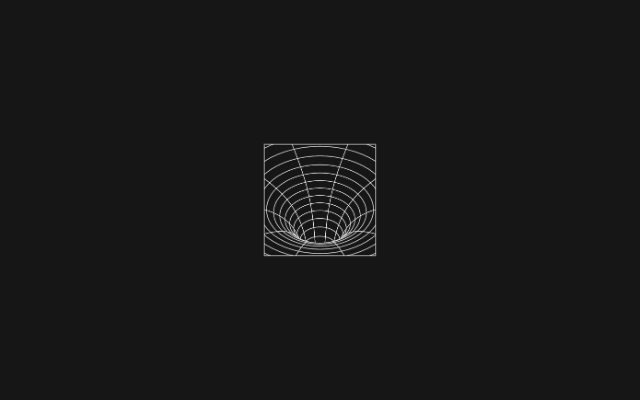
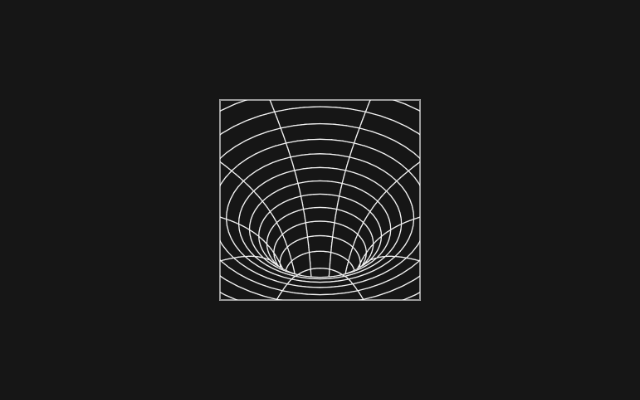
Daily Minimal: show every piece at the same size on screen
Pieces were sized by fitting their original canvas to the screen, so
how big the artwork looked depended on its margins: 28-54% of the
shorter screen side. Each piece now declares `art`, the rest-pose
bounds of its main form, and the harness scales that box so its
equal-area side is SIZE (50%) of the shorter side and centers it.
A per-piece `scale` (default 1) allows fine tuning; S02-238 follows
the same rule on its own. ?native=1 keeps the old 1:1 canvas for
fidelity shots.

The canvas clip is now snapped to device pixels, which removes faint
seams where a piece masks its drawing with the background (S02-368,
S02-437). Thumbnails re-rendered at the new size.

Changed region(s): [[0.3438, 0.24, 0.6562, 0.75], [0.625, 0.3, 0.6562, 0.33], [0.3438, 0.3, 0.375, 0.33]]

diff --git a/src/sketches/daily-minimal/harness.js b/src/sketches/daily-minimal/harness.js
@@ -1,13 +1,17 @@
 // Shared frame for the Daily Minimal ports.
 //
-// Each piece was composed for a small fixed canvas (400-800px). The harness
-// keeps that composition intact: the original canvas is scaled to fit the
-// screen (FIT of the limiting dimension), centered, clipped to its own bounds,
-// and the rest of the screen is filled with the piece's background color, so
-// the port draws in the original coordinate system unchanged.
+// Each piece draws in its original canvas coordinates (ow x oh), unchanged.
+// The harness sizes every piece the same way on screen: the rest-pose bounds
+// of its main form (`art`) are scaled so their equal-area side, sqrt(w*h), is
+// SIZE of the shorter screen side (times the piece's own `scale`), and that
+// box is centered. Drawing is clipped to the original canvas, and the rest of
+// the screen is filled with the piece's background color.
+// ?native=1 draws at scale 1 with the canvas centered, for 1:1 fidelity shots.
 //
 // spec: {
 //   ow, oh        original canvas size
+//   art           [x, y, w, h] rest-pose bounds of the main form (default: canvas)
+//   scale         per-piece size tuning, multiplies SIZE (default 1)
 //   bg            background (p5 color args, e.g. 239 or [22])
 //   fps           original frameRate (default 60)
 //   init(p, S)    once, like setup()
@@ -16,20 +20,32 @@
 //   onActivate(p, S) optional, each time the piece is shown again
 //   ...handlers   mousePressed/mouseReleased/keyPressed/keyReleased(p, S)
 // }
-// S: { ow, oh, k, mouseX, mouseY, live } - mouse is mapped into original
+// S: { ow, oh, scale, k, mouseX, mouseY, live } - mouse is mapped into original
 //   coordinates; `live` is true while someone is actually using the page.
 
-export const FIT = 0.74;
+export const SIZE = 0.5;
+
+const native = new URLSearchParams(location.search).get('native') === '1';
 
 export function dmSketch(spec) {
   return (p) => {
-    const S = { ow: spec.ow, oh: spec.oh, k: 1, ox: 0, oy: 0, mouseX: 0, mouseY: 0, live: false };
+    const S = { ow: spec.ow, oh: spec.oh, scale: spec.scale ?? 1, k: 1, ox: 0, oy: 0, mouseX: 0, mouseY: 0, live: false };
     const bg = [].concat(spec.bg);
 
+    const [ax, ay, aw, ah] = spec.art ?? [0, 0, spec.ow, spec.oh];
+
     function layout() {
-      S.k = Math.min(p.width / S.ow, p.height / S.oh) * FIT;
-      S.ox = (p.width - S.ow * S.k) / 2;
-      S.oy = (p.height - S.oh * S.k) / 2;
+      if (native) {
+        S.k = 1;
+        S.ox = (p.width - S.ow) / 2;
+        S.oy = (p.height - S.oh) / 2;
+        return;
+      }
+      const { width: W, height: H } = p;
+      // equal-area sizing, capped so very wide or tall art still fits
+      S.k = Math.min((SIZE * S.scale * Math.min(W, H)) / Math.sqrt(aw * ah), (0.9 * W) / aw, (0.9 * H) / ah);
+      S.ox = W / 2 - (ax + aw / 2) * S.k;
+      S.oy = H / 2 - (ay + ah / 2) * S.k;
     }
 
     p.setup = () => {
@@ -47,12 +63,17 @@ export function dmSketch(spec) {
       p.background(...bg);
       const ctx = p.drawingContext;
       p.push();
+      ctx.save();
+      // clip to the original canvas, snapped to device pixels: a soft clip edge
+      // leaves seams where a piece masks its own drawing with the background
+      const d = p.pixelDensity();
+      const snap = (v) => Math.round(v * d) / d;
+      const [x0, y0] = [snap(S.ox), snap(S.oy)];
+      ctx.beginPath();
+      ctx.rect(x0, y0, snap(S.ox + S.ow * S.k) - x0, snap(S.oy + S.oh * S.k) - y0);
+      ctx.clip();
       p.translate(S.ox, S.oy);
       p.scale(S.k);
-      ctx.save();
-      ctx.beginPath();
-      ctx.rect(0, 0, S.ow, S.oh);
-      ctx.clip();
       spec.frame(p, S);
       ctx.restore();
       p.pop();

diff --git a/src/sketches/daily-minimal/S02-238.js b/src/sketches/daily-minimal/S02-238.js
@@ -8,11 +8,15 @@
 // objects (one per paper texture) instead of re-emitting ~2400 textured quads
 // every frame.
 
-import { FIT } from './harness.js';
+import { SIZE } from './harness.js';
 import { paperCanvas } from '../../lib/paper.js';
 
 const backC = 239;
 const ORIGINAL = 600;
+// Sizing like the harness: the start pose is the cube (side 250) face-on, which
+// p5's default perspective camera shows about 1.47x larger, so ~367 across.
+const ART = 367;
+const SCALE = 1; // per-piece size tuning
 const maxDepth = 3;
 const STEP_FRAMES = 45 * 7; // ~7s per depth in ambient mode
 const HOLD_FRAMES = 45 * 16;
@@ -117,7 +121,7 @@ export default function fractalCube(p) {
 
     angle += 0.005;
     p.background(backC);
-    const k = (Math.min(p.width, p.height) / ORIGINAL) * FIT;
+    const k = (SIZE * SCALE * Math.min(p.width, p.height)) / ART;
     p.scale(k);
     p.rotateX(angle);
     p.rotateY(angle);

diff --git a/src/sketches/daily-minimal/IF-004.js b/src/sketches/daily-minimal/IF-004.js
@@ -31,6 +31,8 @@ function cube(S, ctx, x, y, off, l, m, d) {
 export default dmSketch({
   ow: 600,
   oh: 600,
+  art: [156, 156, 288, 288], // the rotating triangle, as a centered square of its equal-area side
+  scale: 1,
   bg: backC,
   init(p, S) {
     const opts = { specks: (600 * 600) / 250, speckSize: [0.5, 2] };

diff --git a/src/sketches/daily-minimal/S02-045.js b/src/sketches/daily-minimal/S02-045.js
@@ -7,6 +7,8 @@ const back = 237;
 export default dmSketch({
   ow: 400,
   oh: 400,
+  art: [66, 106, 268, 188], // the waves across the masked window, centered on the circle
+  scale: 1,
   bg: back,
   init(p, S) {
     // y(t) = A*sin(TWO_PI*f*t+p): [amplitude, frequency, phase]

diff --git a/src/sketches/daily-minimal/S02-446.js b/src/sketches/daily-minimal/S02-446.js
@@ -18,6 +18,8 @@ function noiseCircle(zoff) {
 export default dmSketch({
   ow: 500,
   oh: 500,
+  art: [100, 100, 300, 300], // the circle
+  scale: 1,
   bg: backC,
   init(p, S) {
     S.circles = Array.from({ length: 5 }, (_, i) => noiseCircle(i * 5));

diff --git a/src/sketches/daily-minimal/S02-181.js b/src/sketches/daily-minimal/S02-181.js
@@ -50,6 +50,8 @@ function interact(p, S, a, b) {
 export default dmSketch({
   ow: 800,
   oh: 300,
+  art: [100, 0, 600, 300], // the track the diamonds slide along, at their largest
+  scale: 1,
   bg: backC,
   init(p, S) {
     p.randomSeed(32333);

diff --git a/src/sketches/daily-minimal/S02-404.js b/src/sketches/daily-minimal/S02-404.js
@@ -13,6 +13,8 @@ function circle(x, y, d, bandThickness, numBands) {
 export default dmSketch({
   ow: 700,
   oh: 700,
+  art: [100, 100, 500, 500], // the outer circle
+  scale: 1,
   bg: light,
   init(p, S) {
     const height = S.oh;

diff --git a/src/sketches/daily-minimal/S02-368.js b/src/sketches/daily-minimal/S02-368.js
@@ -81,6 +81,8 @@ function restart(p, S) {
 export default dmSketch({
   ow: 500,
   oh: 500,
+  art: [75, 75, 350, 350], // the circle
+  scale: 1,
   bg: 25,
   init(p, S) {
     S.grain = [grainLayer(), grainLayer(), grainLayer()];

diff --git a/src/sketches/daily-minimal/S02-582.js b/src/sketches/daily-minimal/S02-582.js
@@ -61,6 +61,8 @@ function drawTunnel(p, vx, vy) {
 export default dmSketch({
   ow: 1000,
   oh: 1000,
+  art: [X0, Y0, W, W], // the frame
+  scale: 1,
   bg,
   init(p, S) {
     S.wander = wanderer(p, 500, 500, W * 0.6, 0.003);

diff --git a/src/sketches/daily-minimal/S02-525.js b/src/sketches/daily-minimal/S02-525.js
@@ -578,6 +578,8 @@ function hold(p, S, sec, then) {
 export default dmSketch({
   ow: 1000,
   oh: 1000,
+  art: [274, 280, 452, 440], // the broken square at rest, gaps included
+  scale: 1,
   bg,
   fps: 30,
   init(p, S) {

diff --git a/src/sketches/daily-minimal/S02-474.js b/src/sketches/daily-minimal/S02-474.js
@@ -10,6 +10,8 @@ const numLines = 50;
 export default dmSketch({
   ow: 500,
   oh: 500,
+  art: [125, 125, 250, 250], // the circular window the lines show through
+  scale: 1,
   bg: backC,
   fps: 2,
   init(p, S) {

diff --git a/src/sketches/daily-minimal/S02-498.js b/src/sketches/daily-minimal/S02-498.js
@@ -248,6 +248,8 @@ const smooth = (t) => t * t * (3 - 2 * t);
 export default dmSketch({
   ow: 1280,
   oh: 1280,
+  art: [F0, F0, F1 - F0, F1 - F0], // the frame
+  scale: 1,
   bg,
   fps: 30,
   init(p, S) {
